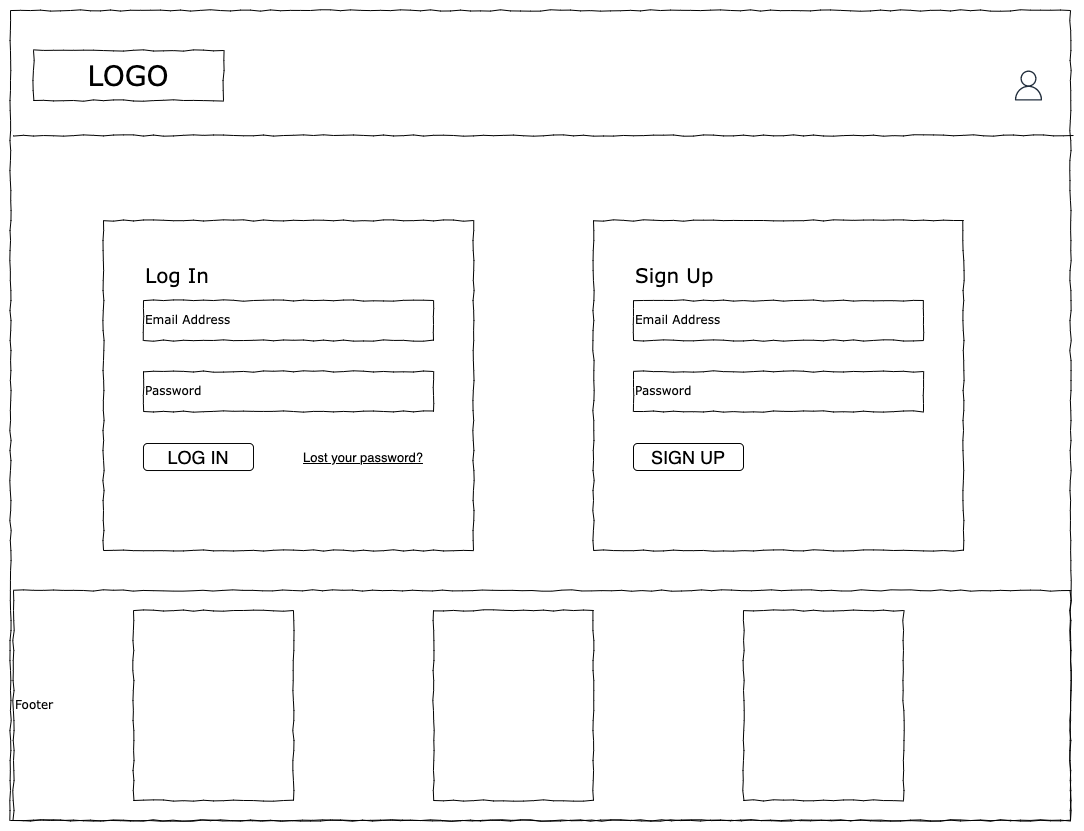
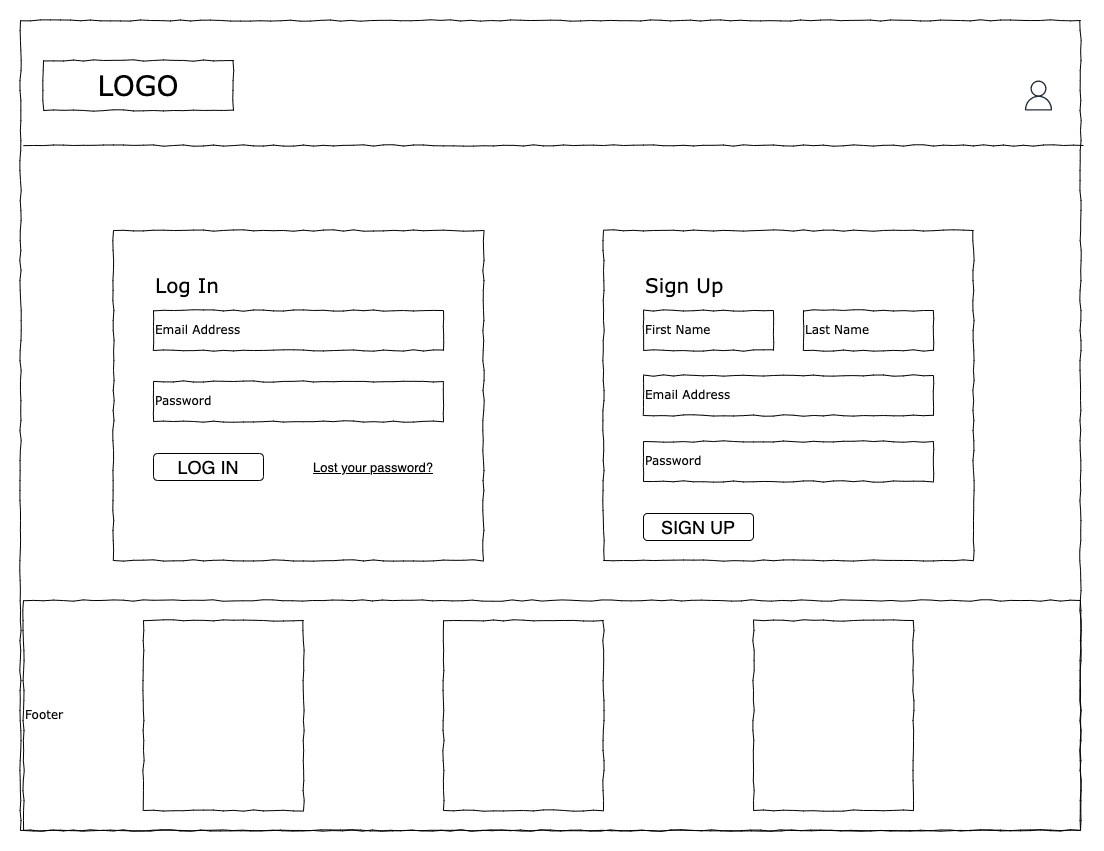
Name field and media query added

diff --git a/signin.html b/signin.html
@@ -41,6 +41,7 @@
     <!-- Log in -->
     <div class="col-sm-6 form-container">
 
+<<<<<<< Updated upstream
       <form id="login">
         <h2 class="log-in" >Log In</h2>
         <div class="form-group">
@@ -103,6 +104,45 @@
           <a class="nav-link footer-item text-reset" href="#">Plant Life Blog</a>
         </li>
       </ul>
+=======
+        <form>
+          <h2 class="log-in">Log In</h2>
+          <div class="form-group">
+            <label for="exampleFormControlInput1">Email address</label>
+            <input type="email" class="form-control" id="exampleFormControlInput1" placeholder="name@example.com">
+          </div>
+          <div class="form-group">
+            <label for="inputPassword" class="col-form-label">Password</label>
+            <input type="password" class="form-control" id="inputPassword">
+          </div>
+          <button class="btn text-uppercase log-in-button" type="submit">Log In</button>
+        </form>
+      </div>
+      <!-- Sign up -->
+      <div class="col-sm-6 form-container">
+
+        <form>
+          <h2 class="sign-up">Sign Up</h2>
+          <div class="form-group row name-row">
+            <div class="first-name-container col-sm-6">
+              <input type="text" class="first-name form-control" value="First Name">
+            </div>
+            <div class="last-name-container col-sm-6">
+              <input type="text" class="last-name form-control" value="Last Name">
+            </div>
+          </div>
+          <div class="form-group">
+            <!-- <label for="exampleFormControlInput1">Email address</label> -->
+            <input type="email" class="form-control" id="exampleFormControlInput1" placeholder="Email">
+          </div>
+          <div class="form-group">
+            <!-- <label for="inputPassword" class="col-form-label">Password</label> -->
+            <input type="password" class="form-control" id="inputPassword" placeholder="Password">
+          </div>
+          <button class="btn text-uppercase signup-button" type="submit">Sign Up</button>
+        </form>
+      </div>
+>>>>>>> Stashed changes
     </div>
     <div class="col-sm-4 nav-col">
       <h6 class="footer-title text-uppercase">About PlantsHub</h6>

diff --git a/css/landingPageStyle.css b/css/landingPageStyle.css
@@ -161,12 +161,6 @@ div.col-sm-6.title-text{
     object-position: center;
 }
 
-/* .card-img-top {
-    max-height: 200px;
-    min-height: 150px;
-    object-fit: cover;
-} */
-
 .plant-care{
   padding: 0 7% 5%;
 }
@@ -324,6 +318,10 @@ div.col-sm-6.title-text{
   .footer-row .nav-col{
     padding-top: 5%;
   }
+
+  .form-container, .first-name-container{
+    padding-bottom: 5%;
+  }
 }
 
 .sign-up-title{
@@ -340,4 +338,17 @@ form{
 
 .log-in,.sign-up{
   font-family: 'Sansita', sans-serif;
+}
+
+.sign-up{
+  margin-bottom: 5%;
+}
+
+.name-row{
+  margin-left: 0;
+  margin-right: 0；
+}
+
+.first-name-container, .last-name-container{
+  padding-left: 0;
 }
